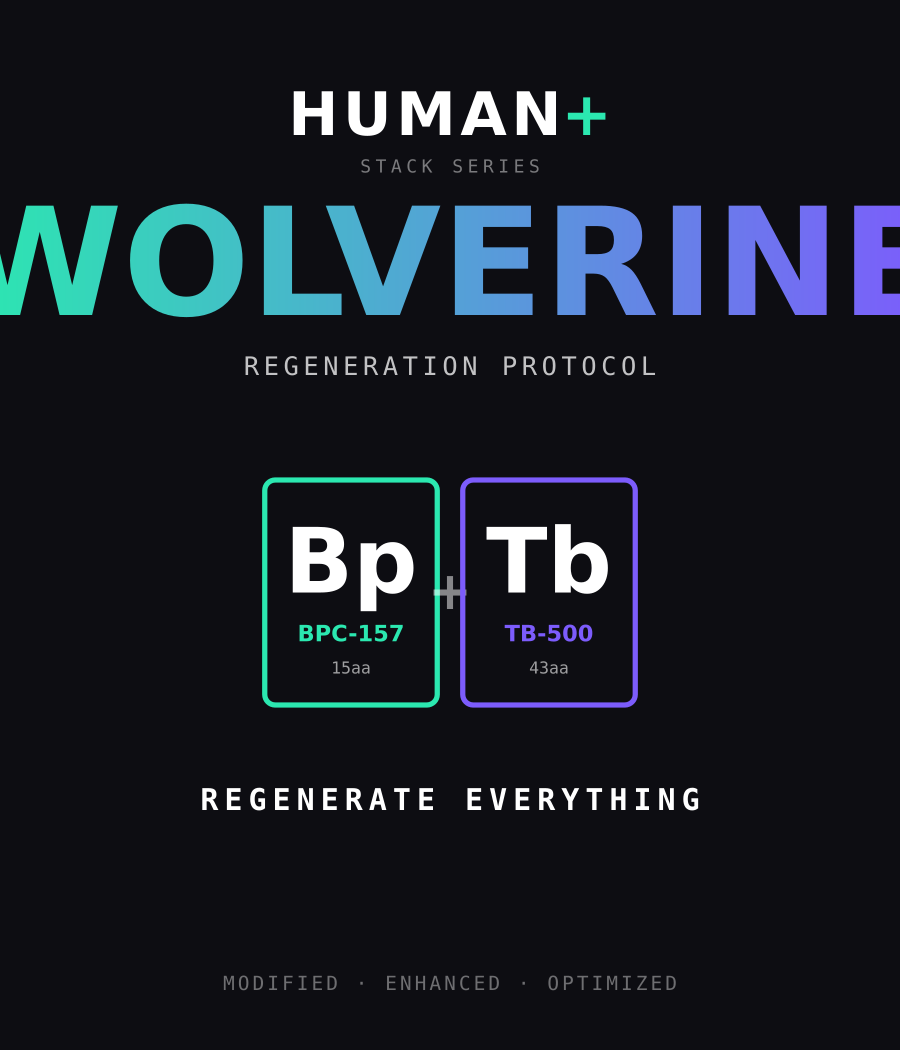
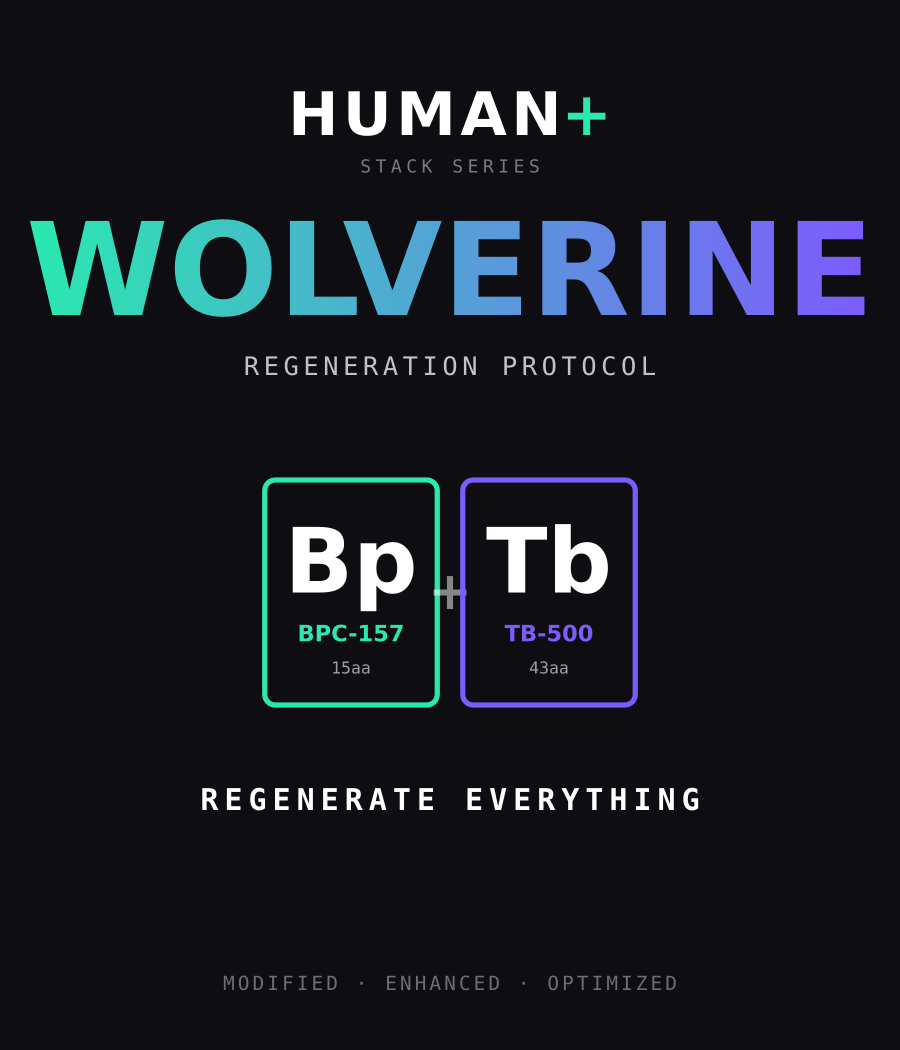
Auto-scale stack name to fit tile width
Fixes WOLVERINE overflowing the tile edges; long stack names now shrink
to fit while short ones (GLOW/KLOW) stay at full size.

Changed region(s): [[0.0, 0.1829, 1.0, 0.3048]]

diff --git a/designs/generate_tiles.py b/designs/generate_tiles.py
@@ -269,7 +269,7 @@ def stack_tile(name, subtitle, comps, tagline):
   <defs><linearGradient id="g" x1="0" y1="0" x2="1" y2="0">{''.join(stops)}</linearGradient></defs>
   <text x="600" y="180" font-family="{SANS}" font-size="80" font-weight="800" text-anchor="middle" letter-spacing="6" fill="{WHITE}">HUMAN<tspan fill="{STACK_COLORS[0]}">+</tspan></text>
   <text x="600" y="230" font-family="{MONO}" font-size="24" text-anchor="middle" letter-spacing="6" fill="{WHITE}" fill-opacity="0.45">STACK SERIES</text>
-  <text x="600" y="420" font-family="{SANS}" font-size="200" font-weight="800" text-anchor="middle" fill="url(#g)">{esc(name)}</text>
+  <text x="600" y="420" font-family="{SANS}" font-size="{min(200, int(1000 / max(len(name), 1) * 1.55))}" font-weight="800" text-anchor="middle" fill="url(#g)">{esc(name)}</text>
   <text x="600" y="500" font-family="{MONO}" font-size="34" letter-spacing="6" text-anchor="middle" fill="{WHITE}" fill-opacity="0.75">{esc(subtitle.upper())}</text>
   {''.join(minis)}
   <text x="600" y="1080" font-family="{MONO}" font-size="40" font-weight="700" letter-spacing="8" text-anchor="middle" fill="{WHITE}">{esc(tagline)}</text>
